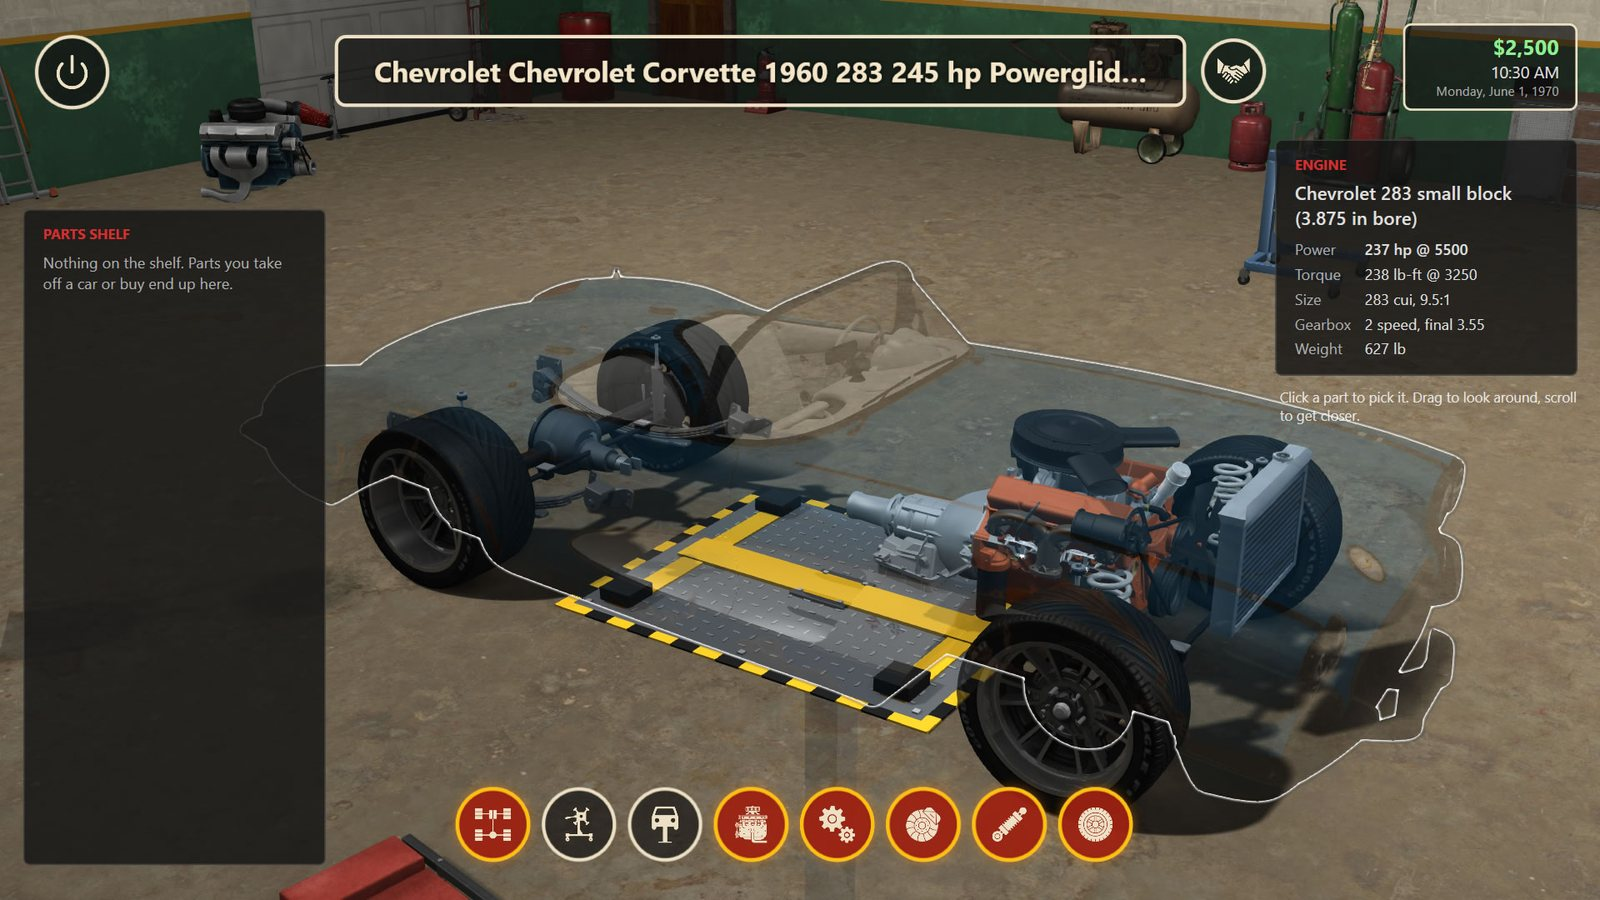
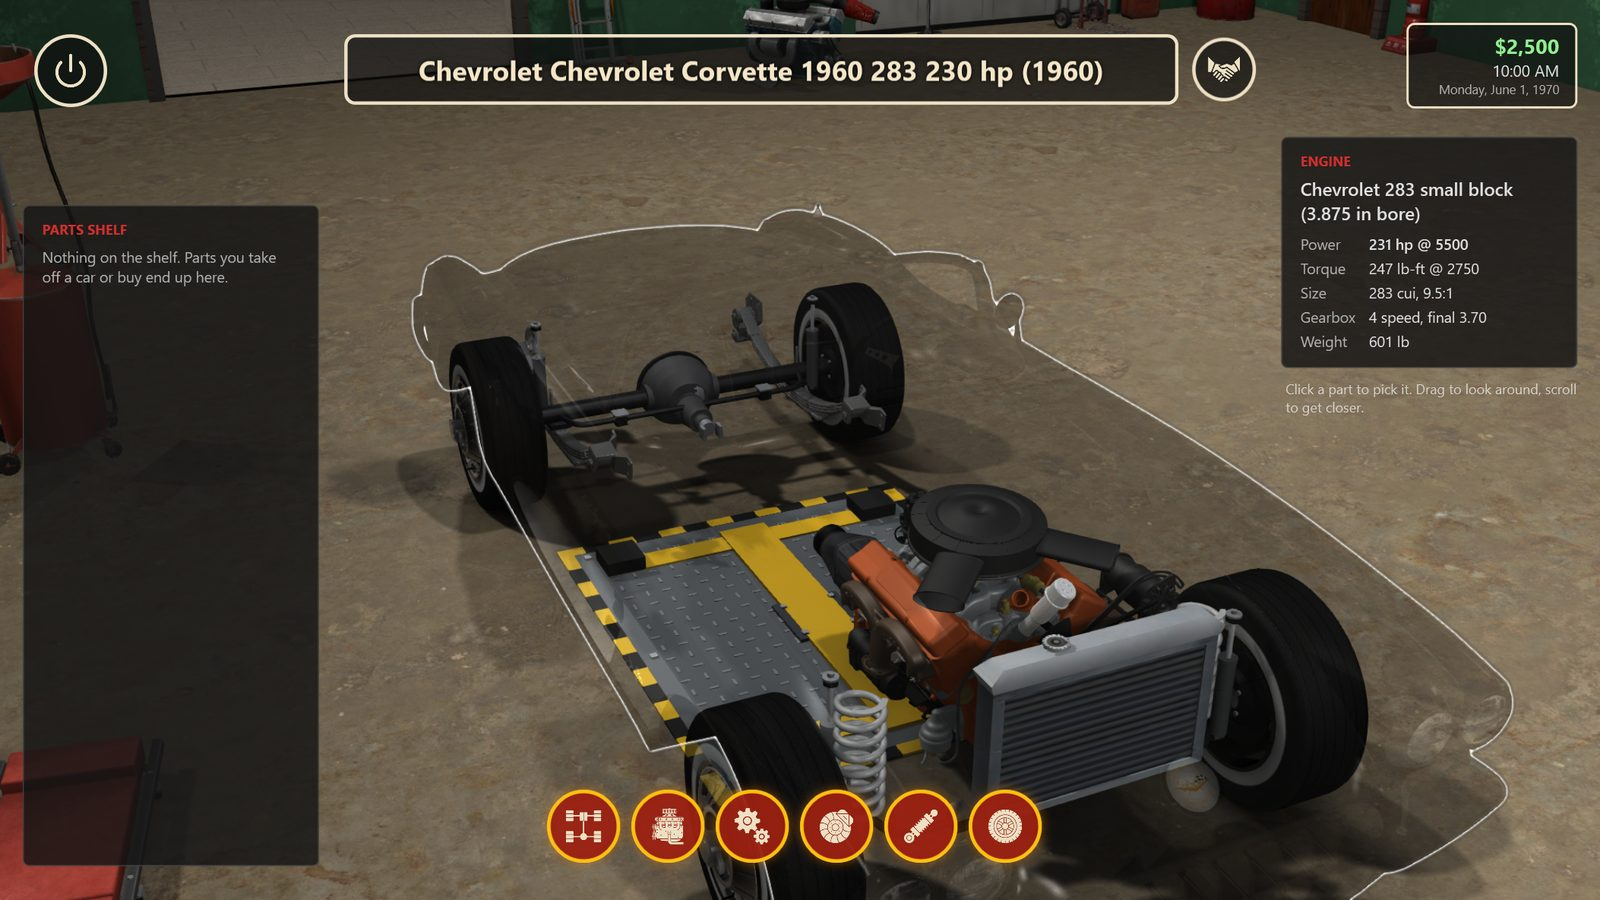
Street Corsa 0.1.3: release on the downloads, Street Rod 0.1.1, changelog, news post; the engine stand, bare block and parts view shot again with the engines the right way round

diff --git a/content/news/2026-11-11-0-1-3.md b/content/news/2026-11-11-0-1-3.md
@@ -1,0 +1,24 @@
+---
+title: "Street Corsa 0.1.3"
+date: 2026-11-11T02:00:00
+description: Engines the right way round, lamps that cast shadows, your car driving home after a race, and smoother moving scenes.
+image: /images/mods/street-rod/engine-stand-sm.jpg
+---
+
+Street Corsa **0.1.3** is out. Get it on the [downloads](/downloads/) page; it installs over any earlier version.
+
+![A Chevy 283 on the stand, the right way round](/images/mods/street-rod/engine-stand.jpg "A Chevy 283 on the stand, the right way round")
+
+- **Every engine the right way round.** The twelve engine packs are fixed (see
+  [the news](/news/2026-11-11-engines-right-way-round/)), and the pictures on this site are shot again.
+- **Street Rod 0.1.1.** The carburettors, air cleaners and blower that fit any engine are the right way round too.
+  Every rim and tyre has a model again, and two wheels that faced the wrong way are fixed.
+- **Lamps cast shadows indoors.** The garage, the shops, the car lot and the paint booth are lit by their lamps, so
+  cars and props stand on the floor, day and night.
+- **Smoother moving scenes.** A car driving in, the lift, the engine hoist and a revving engine cost less to draw.
+- **Your car comes home after a race.** Whenever it can still run, it drives into the garage. A car that won't run is
+  towed home.
+- **The garage's wheels and springs.** A tyre you take off is gone from the car, and a bare rim shows and can be picked.
+
+To update a setting or an engine pack, install the new zip from the main screen: **Mod Manager → Install mods**.
+Everything that changed is in the [changelog](/about/changelog/).

diff --git a/content/about/changelog.md b/content/about/changelog.md
@@ -5,6 +5,24 @@ weight: 3
 source: street-corsa docs/player/changelog.md
 ---
 
+## 0.1.3
+
+- **Every engine the right way round.** The engine packs were built as mirror images of the real engines; all twelve
+  are fixed. Download the new versions and install them from **Mod Manager → Install mods**.
+- **Street Rod 0.1.1.** The carburettors, air cleaners and blower that fit any engine are the right way round too.
+  Every rim and tyre has a model again, two wheels that faced the wrong way are fixed, and a few cars' engines sit
+  better in their bays.
+- **Your car comes home after a race.** Whenever it can still run, it drives into the garage. A car you win comes
+  home and is the one selected. A car that won't run is towed home, and you pay the tow.
+- **Lamps cast shadows indoors.** The garage, the shops, the car lot and the paint booth are lit by their lamps, so
+  cars and props stand on the floor, day and night.
+- **Smoother moving scenes.** A car driving in, the lift, the engine hoist and a revving engine cost less to draw.
+- **The garage's wheels and springs.** A tyre you take off is gone from the car. The car comes down off the lift only
+  with a tyre on every rim. A bare rim shows and can be picked. A rear corner takes one spring, coil or leaf.
+- Lowered cars keep their tyres' shadows on the floor.
+- Many fixes from a code audit: safer mod installs, each rival in a field race gets their own result, and a quicker
+  first start after a race.
+
 ## 0.1.2
 
 - **A new racer window at the diner.** Back and close sit in the window's title bar. The race, the matchup and the

diff --git a/content/tutorials/playing/install.md b/content/tutorials/playing/install.md
@@ -44,7 +44,6 @@ By hand: **New Game → Open the Content folder** and unzip it there.
 
 - **People who talk back.** Install [Ollama](https://ollama.com), run `ollama pull llama3.1:8b`, then in the game's
   **Settings → AI** pick Ollama and press **Make the game's model**. Works best on a graphics card with 12 GB.
-  More in [People who talk back](/tutorials/playing/ai.md).
 - **Police.** Cops only show up if a police car is installed in Assetto Corsa: a setting says which.
 - **Mods.** Drop a mod's folder into the `Content` folder of the game's install folder
   (`%LocalAppData%\Programs\Street Corsa\Content`). Settings (the career you play) and engine packs come as mods.

diff --git a/content/downloads/_index.es.md b/content/downloads/_index.es.md
@@ -3,7 +3,7 @@ title: Descargas
 description: El juego, sus ambientaciones, packs de motores y complementos.
 ---
 
-**Acceso anticipado:** versión 0.1.1, con trabajo por delante. Puede que las partidas guardadas no pasen a versiones futuras. Qué cambió: el [registro de cambios](/about/changelog/) (en inglés).
+**Acceso anticipado:** versión 0.1.3, con trabajo por delante. Puede que las partidas guardadas no pasen a versiones futuras. Qué cambió: el [registro de cambios](/about/changelog/) (en inglés).
 
 1. Instala **el juego**.
 2. Agrega una **ambientación**: en la pantalla principal, **Mod Manager → Install mods**, elige el zip.

diff --git a/content/downloads/_index.pt.md b/content/downloads/_index.pt.md
@@ -3,7 +3,7 @@ title: Downloads
 description: O jogo, os cenários, pacotes de motores e complementos.
 ---
 
-**Acesso antecipado:** versão 0.1.1, com trabalho pela frente. Os saves podem não passar para versões futuras. O que mudou: o [changelog](/about/changelog/) (em inglês).
+**Acesso antecipado:** versão 0.1.3, com trabalho pela frente. Os saves podem não passar para versões futuras. O que mudou: o [changelog](/about/changelog/) (em inglês).
 
 1. Instale **o jogo**.
 2. Adicione um **cenário**: na tela principal, **Mod Manager → Install mods**, escolha o zip.

diff --git a/content/downloads/_index.md b/content/downloads/_index.md
@@ -3,7 +3,7 @@ title: Downloads
 description: The game, its settings, engine packs and add-ons.
 ---
 
-**Early access:** version 0.1.2, with work ahead. Saves may not carry over to later versions. What changed: the [changelog](/about/changelog/).
+**Early access:** version 0.1.3, with work ahead. Saves may not carry over to later versions. What changed: the [changelog](/about/changelog/).
 
 1. Install **the game**.
 2. Add a **setting**: on the main screen, **Mod Manager → Install mods**, pick the zip.
